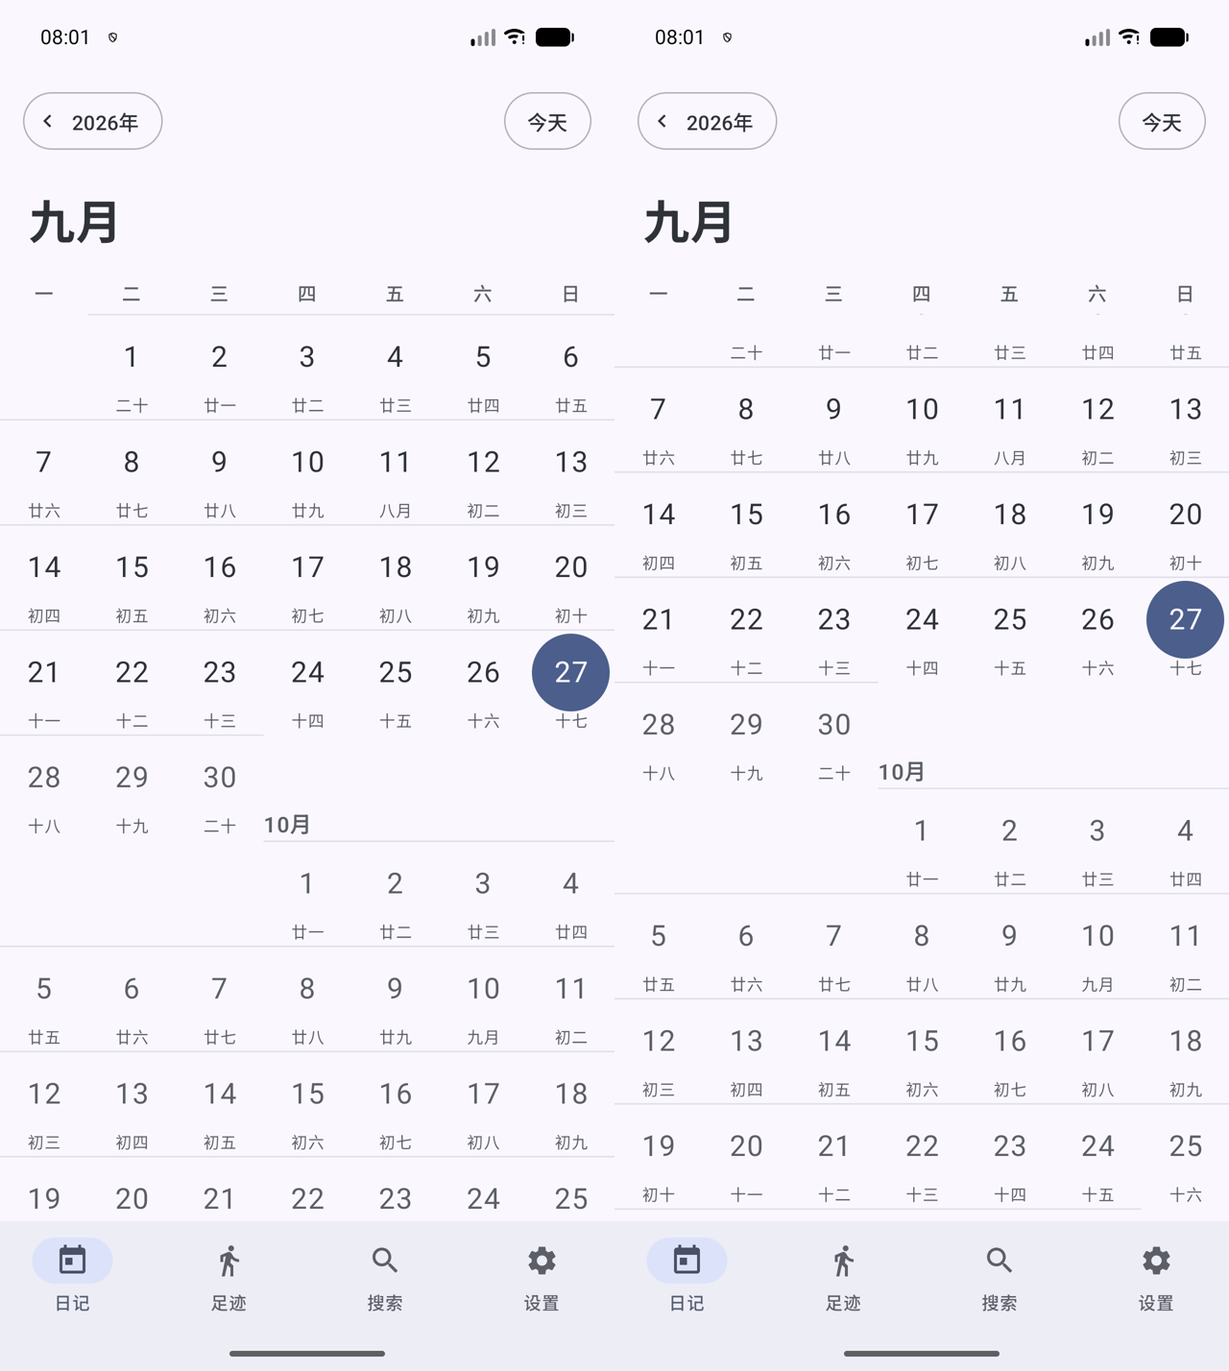
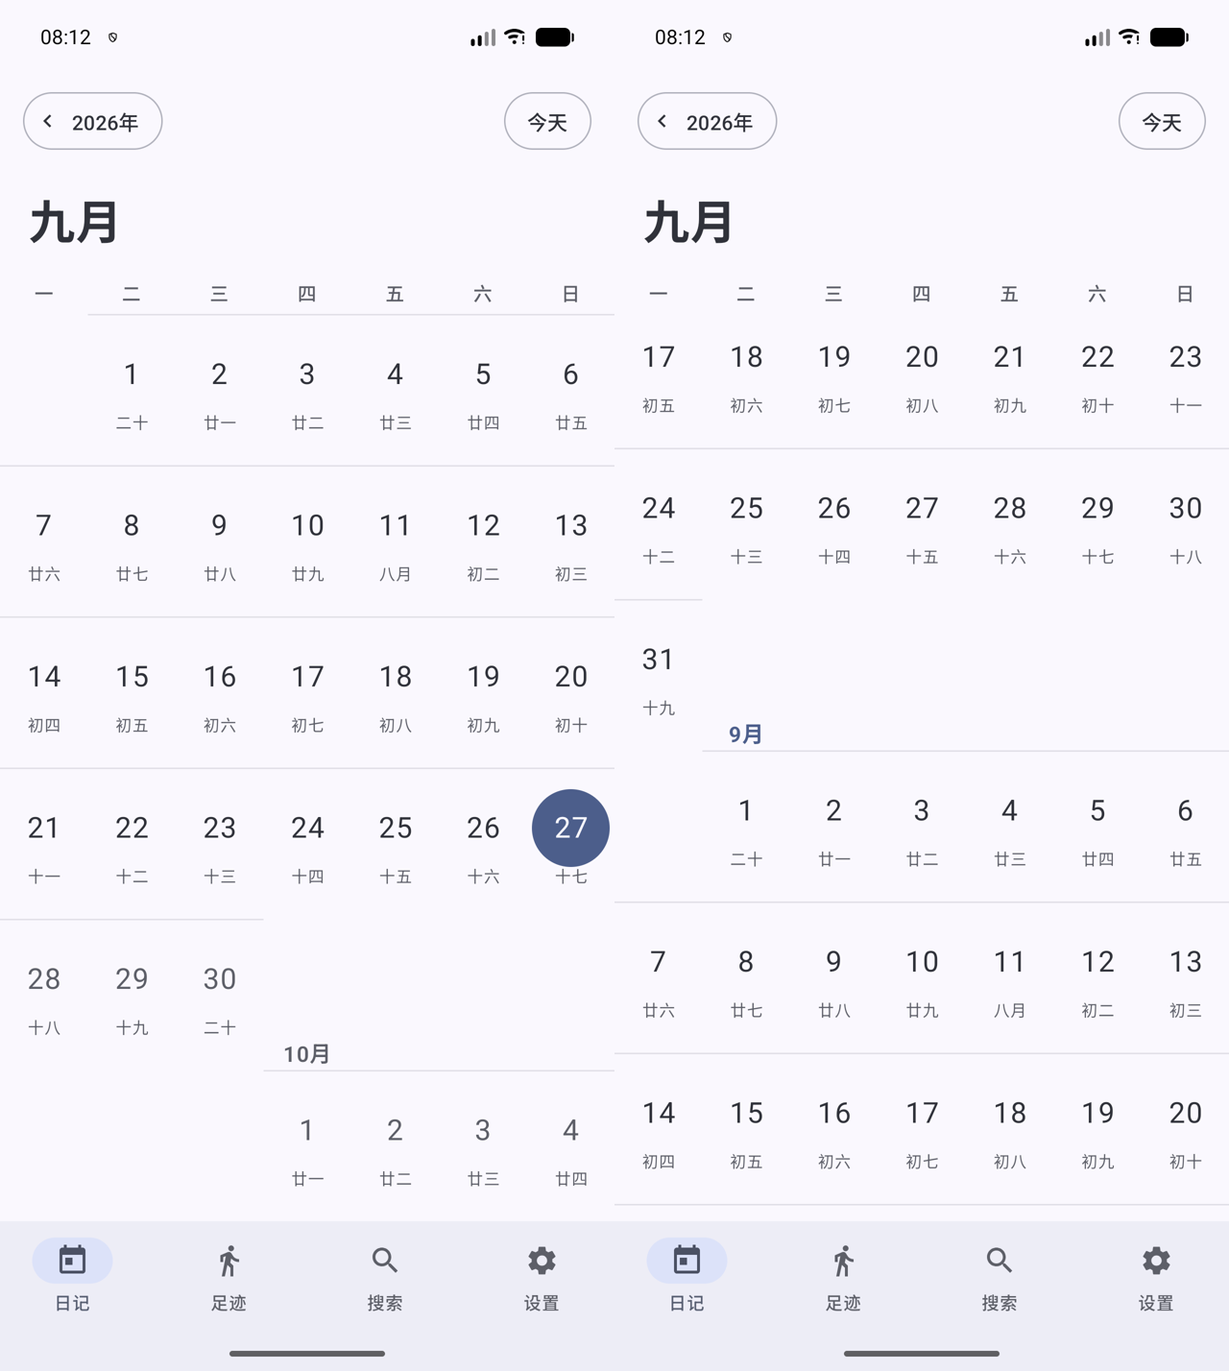
feat(home): 行高对齐 iOS 的 94pt 尺子；小标题压在 1 号正上方并与上一行隔开
用户（2026-09-27）："小月份要在 1 号正上方。另外，小月份和上一个月的最后要稍微隔开
一点，以小月份的上方为限。行高也按照 iOS 的 94pt 来设置，这方面对齐 iOS。
顶部大标题的问题，先不要改。"

- **行高**：改用 iOS 同一条尺子 `(区高 − 标题槽 − 星期栏) / 6`
  （`CalendarLayout.flowCellHeightFor`，含"系统字号放大"的兜底下限）。
  iPhone 402×874 上正是 94pt，本机（426.7×952dp）得 ~105dp —— 写死 94dp 反而会在
  底部漏出 0.7 行下个月，不是 iOS 的画面。一屏因此正好 6 行 = 一个月（与 iOS 一致）。
  这条**取代**了 §8.9 那条"由列宽推出（列距 × 1.2）"。
- **小标题正上方**：文字改成在 1 号那一列里**居中**（`TextAlign.Center`）——
  iOS 的 `frame(width: cellW, alignment: .bottom)` 默认就是居中，此前 Compose 默认的
  起始对齐看着偏左。
- **与上个月隔开**：行高一改，一行底部留白从 19dp 变 35dp，放得下小标题的 21 + 3dp，
  顶边之上还剩 ~11dp 空档（最坏情况"1 号是周首日"实测：农历底边与小标题字形顶边之间
  约 5.7dp）。小标题的 `surface` 底板因此删掉（不再需要遮挡）。
- **顶部大标题规则未动**（用户要求先不改）：行高变了之后它自然与 iOS 对齐 ——
  切换点从"静止位置往下 0.7 行"变成"往下 2 行"。

测试：`MonthFlowLayoutTest` 补两条（`the label keeps a gap above the previous month's
last row` / `row height fills the viewport with six rows like ios`），"静止画面"那条按新
尺子重写；全量 **417** 条 JVM 单测 + `assembleDebug` 通过，编译零警告。
证据截图（`docs/ui-audit/r6-*.png`）已按新版面重拍。

diff --git a/app/src/test/java/com/cov/justdiary/ui/home/MonthFlowLayoutTest.kt b/app/src/test/java/com/cov/justdiary/ui/home/MonthFlowLayoutTest.kt
@@ -25,20 +25,18 @@ import java.time.LocalDate
 class MonthFlowLayoutTest {
 
     /**
-     * 参考机（Pixel 10 Pro AVD，426.7×952dp）的实测值。
+     * 参考机（Pixel 10 Pro AVD，1280×2856 @480dpi = 426.7×952dp）的实测值。
      *
-     * ⚠ Android 竖屏的行高是**由列宽推出**的（`dayCellHeightFor`：列距 × 1.2，且不低于
-     * 内容下限 72dp），不是 iOS 那种「把整页均分给 6 行」。于是同样一屏在 Android 上能看到
-     * **约 9 行（≈ 1.8 个月）**，而 iOS 上是 6 行。这条差异影响两处断言：视口里能同时看到
-     * 两个整月、以及"顶部月份"过半才切。
+     * 行高与 iOS **同一条尺子**：`(日历区高 − 标题槽 − 星期栏) / 6`（用户 2026-09-27
+     * "行高也按照 iOS 的 94pt 来设置，这方面对齐 iOS"）。iPhone 402×874 上得 94pt，
+     * 本机得 ~105dp —— 一屏正好 6 行（= 一个月），与 iOS 的观感一致。
      */
     private val calendarW = 426.7f
-    private val rowH = CalendarLayout.dayCellHeightFor(calendarW, fontScale = 1f, showLunar = true)
 
-    /** 日历区高度 = 屏高 − 顶栏 64 − 底部导航 83（与 `AdaptiveLayout` 的浮条让位同一个量级）。 */
-    private val viewportH =
-        952f - CalendarLayout.HEADER_H - CalendarLayout.BIG_TITLE_H -
-            CalendarLayout.WEEKDAY_HEADER_H - 83f
+    /** 日历区高度 = 屏高 − 顶栏 64 − 底部导航（实测内容顶 ≈ 218dp、底 ≈ 848dp）。 */
+    private val bandH = 952f - CalendarLayout.HEADER_H - 83f
+    private val viewportH = bandH - CalendarLayout.BIG_TITLE_H - CalendarLayout.WEEKDAY_HEADER_H
+    private val rowH = CalendarLayout.flowCellHeightFor(areaH = bandH, fontScale = 1f, showLunar = true)
 
     private fun layout(ws: String = DateUtil.WEEK_START_MONDAY) = MonthFlowLayout.of(ws, rowH)
 
@@ -46,6 +44,10 @@ class MonthFlowLayoutTest {
 
     /** 见 `rows inside a month are exactly one row apart` 里的说明。 */
     private val FLOAT_EPS = 0.1f
+
+    /** 一行里「内容之上」的留白（小标题就借用它）。 */
+    private val contentTopPadding =
+        CalendarLayout.cellContentTopPadding(CalendarLayout.flowMetrics(calendarW, rowH, showLunar = true))
 
     // ------------------------------------------------------------------ 行数与行高
 
@@ -113,6 +115,40 @@ class MonthFlowLayoutTest {
         }
     }
 
+    /**
+     * 2b) **小标题与上个月最后一行要隔开**（用户 2026-09-27："小月份和上一个月的最后要
+     * 稍微隔开一点，以小月份的上方为限"）。
+     *
+     * 小标题整块高度 = 带高 + 3dp 间隙，必须**放得进**上一行底部的留白
+     * `(行高 − 内容高)/2`，这样它的**顶边**之上还剩一段真实的空档。
+     */
+    @Test
+    fun `the label keeps a gap above the previous month's last row`() {
+        val padding = contentTopPadding
+        // 小标题整块（带高 + 3dp 间隙）必须放得进上一行底部的留白
+        assertTrue(
+            "留白 ${'$'}padding 要放得下小标题 ${'$'}{labelH + CalendarLayout.LABEL_TIGHT_GAP}",
+            padding >= labelH + CalendarLayout.LABEL_TIGHT_GAP,
+        )
+        // 而且"小标题顶边"之上还有真正的空档（用户要的"稍微隔开一点"）
+        val gap = padding - labelH - CalendarLayout.LABEL_TIGHT_GAP
+        assertTrue("小标题上方要留出空档（当前 ${'$'}gap dp）", gap >= 4f)
+    }
+
+    /** 行高 = iOS 那条尺子：一屏正好 6 行（分区高 = 标题槽 + 星期栏 + 6 行）。 */
+    @Test
+    fun `row height fills the viewport with six rows like ios`() {
+        assertEquals(
+            "六行正好铺满视口（iOS 同一条尺子）",
+            viewportH,
+            rowH * CalendarLayout.MONTH_ROWS,
+            0.001f,
+        )
+        // 系统字号放大时行高要跟着长，否则"日号 + 农历"会被裁掉
+        val big = CalendarLayout.flowCellHeightFor(bandH, fontScale = 2f, showLunar = true)
+        assertTrue("字号放大后行高要跟着长", big > rowH)
+    }
+
     /** 3) 静止位置 = 该月第一行的顶；此时顶部月份就是它自己。 */
     @Test
     fun `rest offset puts the first row at the top`() {
@@ -128,11 +164,12 @@ class MonthFlowLayoutTest {
     }
 
     /**
-     * 静止画面（Android 竖屏）：本月第一行顶在视口顶部，**整月都在视口里**，
-     * 下面还接着下个月的小标题与若干行 —— 这正是用户要的「下一个月的日期会立即出现」。
+     * 静止画面（竖屏，与 iOS 一致）：本月第一行顶在视口顶部；**6 行月正好铺满**
+     * （下个月一行都不露），5 行月则把下个月的第一行露在底部 —— 这正是用户要的
+     * 「下一个月的日期会立即出现」。
      */
     @Test
-    fun `the viewport at rest shows the whole month and the next month's start`() {
+    fun `the viewport at rest shows six rows or the next month's first row`() {
         val l = layout()
         for (key in listOf(202608, 202609, 202602)) {
             val i = l.blockIndexForKey(key)
@@ -140,10 +177,15 @@ class MonthFlowLayoutTest {
             val block = l.blocks[i]
             val rowsH = block.rowCount * l.rowH
             val nextTop = l.blocks[i + 1].top
-            assertTrue("本月的第一行顶在视口顶部", rest == block.top)
-            assertTrue("整月都要放得下（行数 4…6）", rowsH <= viewportH)
+            assertEquals("本月的第一行顶在视口顶部", block.top, rest, 0.001f)
             assertEquals("下个月紧接着本月最后一行（不留空隙）", rest + rowsH, nextTop, 0.001f)
-            assertTrue("所以下一行确实露在视口里", nextTop < rest + viewportH)
+            if (block.rowCount == 6) {
+                assertEquals("六行正好铺满视口", viewportH, rowsH, 0.001f)
+                assertEquals("六行月的下一行正好在视口之外", rest + viewportH, nextTop, 0.001f)
+            } else {
+                assertTrue("五行月底下会露出下个月的开头", rowsH < viewportH)
+                assertTrue("所以下一行确实露在视口里", nextTop < rest + viewportH)
+            }
         }
     }
 

diff --git a/app/src/main/java/com/cov/justdiary/ui/home/MonthFlow.kt b/app/src/main/java/com/cov/justdiary/ui/home/MonthFlow.kt
@@ -46,6 +46,7 @@ import androidx.compose.ui.semantics.clearAndSetSemantics
 import androidx.compose.ui.semantics.hideFromAccessibility
 import androidx.compose.ui.semantics.semantics
 import androidx.compose.ui.text.font.FontWeight
+import androidx.compose.ui.text.style.TextAlign
 import androidx.compose.ui.text.style.TextOverflow
 import androidx.compose.ui.unit.IntOffset
 import androidx.compose.ui.unit.dp
@@ -266,10 +267,16 @@ class MonthFlowLayout private constructor(
 private const val LABEL_TIGHT_GAP = 3f
 
 /**
- * 月份小标题：站在**当月 1 号那一列的正上方**（不是整行居中），并且紧贴 1 号那一行。
+ * 月份小标题：压在**当月 1 号那一列的正上方**（在这一列里居中，与日号同一个中心），
+ * 并且紧贴 1 号那一行。
  *
  * 带高就是这一行字的高度（[CalendarLayout.flowLabelBandHeight]），上下不再留白：
  * 用户看过两版（整行高 → 35pt）都嫌高，明确要求「紧贴月份高度」。
+ *
+ * 它**借用**的是上一个月最后一行底部的留白（`CalendarLayout.cellContentTopPadding`
+ * ≈ 35dp），所以不额外占高度；用户 2026-09-27 要求「小月份和上一个月的最后稍微隔开一点，
+ * 以小月份的上方为限」—— 行高对齐 iOS 之后这段留白足够（21 + 3 ≤ 35），
+ * 小标题的**顶边**之上还有约 11dp 的空档。`MonthFlowLayoutTest` 把这条钉住了。
  */
 @Composable
 fun MonthFlowLabel(
@@ -294,12 +301,7 @@ fun MonthFlowLabel(
         // 摆到带子该在的位置（带高 21dp 只是设计值，字自己 ~22dp，差 1dp 看不出来）。
         modifier = modifier
             .offset(x = (column * cellW).dp)
-            .width(cellW.dp)
-            // 底色 = 页面底色：小标题那一行字高 21dp，而上一个月最后一行的**底部留白**
-            // 只有 (行高 − 内容高)/2 ≈ 19dp（Android 的行高由列宽推出，比 iOS 矮），
-            // 所以「1 号正好是周首日」的月份（约 1/7）里小标题会压到前一行的农历上。
-            // 给这一行字一块同色底，压住的部分就干净地让位（而不是叠字）。
-            .background(MaterialTheme.colorScheme.surface),
+            .width(cellW.dp),
         fontSize = DynamicTypeMetrics.calendarSp(
             CalendarLayout.flowLabelFontSize(compact).dp,
             fontScale,
@@ -313,6 +315,9 @@ fun MonthFlowLabel(
         maxLines = 1,
         overflow = TextOverflow.Clip,
         softWrap = false,
+        // **在这一列里居中** = 压在 1 号正上方（1 号的日号也是在这一列居中的）。
+        // iOS 的 `frame(width: cellW, height: bandH, alignment: .bottom)` 默认就是居中。
+        textAlign = TextAlign.Center,
     )
 }
 

diff --git a/app/src/main/java/com/cov/justdiary/ui/home/CalendarLayout.kt b/app/src/main/java/com/cov/justdiary/ui/home/CalendarLayout.kt
@@ -437,6 +437,41 @@ object CalendarLayout {
         (flowLabelFontSize(compact) * 1.4f).roundToInt().toFloat()
 
     /**
+     * 竖屏连续月历流的行高：**与 iOS 同一条尺子** —— `(区高 − 标题槽 − 星期栏) / 6`。
+     *
+     * 用户 2026-09-27："行高也按照 iOS 的 94pt 来设置，这方面对齐 iOS。"
+     * 在 iPhone 402×874 上这个式子得 94pt；本机（Pixel 10 Pro，426.7×952dp）得 ~105dp。
+     *
+     * ⚠ 这条规则**取代**了 §8.9 那条"由列宽推出（列距 × 1.2）"：
+     *  - 一屏正好 6 行（= 一个月）⇒ 与 iOS 的观感一致；
+     *  - 一行底部的留白 = (行高 − 内容高) / 2 ≈ 35dp，**放得下** 21dp 的小标题 +
+     *    3dp 间隙 ⇒ 小标题与上个月最后一行之间自然留出约 11dp（用户要的"稍微隔开一点"）；
+     *    旧规则（73dp）只有 19dp 留白，小标题会压到前一行的农历上。
+     *
+     * [fontScale] 那一项只是**兜底**：系统字号调大时内容会变高，行高至少要放得下
+     * "日号 + 农历"（与 [dayCellHeightFor] 的 `byContent` 同一个下限）。
+     */
+    fun flowCellHeightFor(
+        areaH: Float,
+        headerH: Float = BIG_TITLE_H + WEEKDAY_HEADER_H,
+        fontScale: Float = 1f,
+        showLunar: Boolean = true,
+    ): Float {
+        val byFill = (areaH - headerH) / MONTH_ROWS
+        val natural = if (showLunar) DAY_CELL_CONTENT_H else DAY_CELL_NO_LUNAR_H
+        val byContent = natural * max(1f, fontScale)
+        return max(byFill, byContent).coerceIn(MIN_CELL_H, SANITY_MAX_CELL_H)
+    }
+
+    /**
+     * 一格里「内容之上」的留白：`(行高 − 内容高) / 2`。
+     *
+     * 小标题（[flowLabelBandHeight] + [LABEL_TIGHT_GAP]）就借用这段留白 ——
+     * `MonthFlowLayoutTest` 用它守住"小标题不压到上个月的日期上"。
+     */
+    fun cellContentTopPadding(metrics: DayMetrics): Float = (metrics.cellH - metrics.contentH) / 2f
+
+    /**
      * 连续月历流单行的绘制参数。
      *
      * 字号跟着行高走：竖屏行高 ~94dp 时仍是设计里的 20/11；横屏左栏一格只有 40dp，

diff --git a/app/src/main/java/com/cov/justdiary/ui/home/HomeScreen.kt b/app/src/main/java/com/cov/justdiary/ui/home/HomeScreen.kt
@@ -523,18 +523,15 @@ fun HomeScreen(
         } else {
             showLunar
         }
-        // 行高：竖屏**由列宽推出**（见 `dayCellHeightFor`：均分会让 5 行月的行距达到列距的
-        // 两倍多，用户反馈"上下间隔太大"）；分栏按 6 行等分（行高必须跨月恒定，
-        // 否则滚过月份边界时格子会忽高忽低）。
-        val rowH = if (split) {
-            CalendarLayout.cellHeightFor(
-                areaH = bandH,
-                rows = CalendarLayout.MONTH_ROWS,
-                headerH = titleH + weekdayH,
-            )
-        } else {
-            CalendarLayout.dayCellHeightFor(calendarW, fontScale, showLunarHere)
-        }
+        // 行高：**与 iOS 同一条尺子** `(区高 − 标题槽 − 星期栏) / 6`（行高必须跨月恒定，
+        // 否则滚过月份边界时格子会忽高忽低）。用户 2026-09-27 明确要求对齐 iOS ——
+        // 附带好处是小标题那一行字有了 35dp 的留白（旧规则只有 19dp，会压到农历上）。
+        val rowH = CalendarLayout.flowCellHeightFor(
+            areaH = bandH,
+            headerH = titleH + weekdayH,
+            fontScale = fontScale,
+            showLunar = showLunarHere,
+        )
         val flowLayout = remember(weekStart, rowH) { MonthFlowLayout.of(weekStart, rowH) }
         val viewportH = maxOf(0f, bandH - titleH - weekdayH)
 

diff --git a/docs/migration-progress.md b/docs/migration-progress.md
@@ -1915,6 +1915,29 @@ LazyRow(state = state, flingBehavior = rememberSnapFlingBehavior(state)) {
 1. 每一个日期都是**真实的 Compose 组件**（TalkBack 逐格可读），不是 Canvas；
 2. 钉住层带 `surface` 底色（iOS 靠 `clipped()` 切齐，不需要底色）。
 
+## R6 补 · 行高对齐 iOS 的 94pt + 小标题压在 1 号正上方
+
+**用户（2026-09-27）**："小月份要在 1 号正上方。另外，小月份和上一个月的最后要稍微隔开
+一点，以小月份的上方为限。行高也按照 iOS 的 94pt 来设置，这方面对齐 iOS。
+顶部大标题的问题，先不要改。"
+
+| 用户的话 | 处置 |
+| --- | --- |
+| 行高按 iOS 的 94pt | 改用 **iOS 同一条尺子**：`(区高 − 标题槽 − 星期栏) / 6`（`CalendarLayout.flowCellHeightFor`）。iPhone 402×874 上正是 94pt，本机（426.7×952dp）得 ~105dp —— 写死 94dp 反而会在底部漏出 0.7 行下个月，不是 iOS 的画面 |
+| 小月份压在 1 号正上方 | 小标题的文字改成**在 1 号那一列里居中**（`TextAlign.Center`）。iOS 的 `frame(width: cellW, alignment: .bottom)` 默认也是居中；此前用的是 Compose 默认的起始对齐，看着偏左 |
+| 小月份与上个月的最后隔开一点 | 行高一改，一行底部的留白从 **19dp → 35dp**，放得下小标题的 21 + 3dp，**顶边之上还剩约 11dp 空档**（实测：2 月那种"1 号是周首日"的最坏情况，农历底边与小标题字形顶边之间约 5.7dp）。小标题的 `surface` 底板因此**删掉**了（不再需要遮挡） |
+| 顶部大标题先不要改 | 规则没动（仍是 iOS 的"占视口最多"）。行高变了之后它**自然**与 iOS 对齐：切换点从"往下 0.7 行"变成"往下 2 行" |
+
+**为什么这次和 §8.9 那条"由列宽推出"相反**：那条是 2026-09-26 为了压"上下间隔太大"定的
+（当时行高 114dp、列距 51dp，比例 2.2）。现在换成 iOS 尺子后行高 105dp、列距 61dp，
+比例 1.7 —— 与 iOS 的 94pt / 57pt（1.65）几乎相同，观感就是 iOS 那一版。
+
+**测试**：`MonthFlowLayoutTest` 补两条 ——
+`the label keeps a gap above the previous month's last row`（留白 ≥ 小标题整块，且顶边之上
+还有 ≥ 4dp 空档）、`row height fills the viewport with six rows like ios`（6 行 = 视口，
+且字号放大时行高跟着长）；"静止画面"那条也按新尺子重写（6 行月正好铺满、5 行月露下个月第一行）。
+全量 **417** 条 JVM 单测通过。
+
 ### 已知遗留
 
 - 日记页（阅读 / 编辑 / 多选 / 分享）**未开工**，差距清单见

diff --git a/docs/android-design/03-home.md b/docs/android-design/03-home.md
@@ -556,10 +556,11 @@ LaunchedEffect(listState) {
 
 | 量 | 值（竖屏） | 备注 |
 | --- | --- | --- |
-| 行高 | `dayCellHeightFor`（列距 × 1.2，≥ 内容下限 72dp） | **不是**把整页均分给 6 行 |
-| 一屏可见 | ≈ 9 行（≈ 1.8 个月） | iOS 是 6 行（≈ 1.2 个月） |
-| 顶部大标题切换点 | 本月的静止位置**再往下约 51dp**（约 0.7 行） | 见下面的说明 |
-| 小标题 | 15dp 字 / 21dp 带 / 底边离分割线 3dp | 横屏左栏 13dp / 18dp |
+| 行高 | **`(区高 − 标题槽 − 星期栏) / 6`**（`flowCellHeightFor`） | 与 iOS 同一条尺子：iPhone 得 94pt，本机（426.7×952dp）得 ~105dp |
+| 一屏可见 | **6 行（= 一个月）**：6 行月正好铺满、5 行月底下露下个月第一行 | 与 iOS 完全一致 |
+| 顶部大标题切换点 | 本月的静止位置**再往下 2 行**（210dp） | 与 iOS 同一处（规则未改，行高一改它就自然对齐了） |
+| 小标题 | 15dp 字 / 21dp 带 / 底边离分割线 3dp / **在 1 号那一列里居中** | 横屏左栏 13dp / 18dp |
+| 小标题的落位 | 借用上一行底部留白 `(行高 − 内容高)/2 ≈ 35dp` | 21 + 3 ≤ 35 ⇒ 顶边之上还有 ~11dp 空档 |
 
 **顶部大标题的切换点**（Android 与 iOS 的差异，值得记一笔）：大标题用的是 iOS 那条
 "**占视口最多**"的规则（`dominantBlockIndex`）。iOS 一行 ~94pt、一屏 6 行，所以
@@ -662,7 +663,13 @@ LaunchedEffect(listState) {
    结果是滚动中间态出现**没有任何列标题的日期行**（一眼就是坏的），已回退。
    钉住层与紧凑块**必须同时上**。
 
-## 8.9 竖屏行高：**由列宽推出**，不是把整页均分（2026-09-26 用户反馈）
+## 8.9 竖屏行高：由列宽推出（2026-09-26 用户反馈）
+
+> ⚠ **2026-09-27 已被取代**：用户要求"行高也按照 iOS 的 94pt 来设置，这方面对齐 iOS"，
+> 现在的行高是 `(区高 − 标题槽 − 星期栏) / 6`（见 §8.7.1）。
+> 下面这一节保留的是**当时的推导**（为什么曾经按列宽推）与那次实测的教训。
+> `CalendarLayout.dayCellHeightFor` 仍保留（分栏的密度判定与旧测试还在用它），
+> 但**连续月历流已经不用它**。
 
 用户："目前的日期上下间隔太大了，参考左右间隔来设置上下间隔。"
 

diff --git a/docs/android-design/09-test-checklist.md b/docs/android-design/09-test-checklist.md
@@ -45,8 +45,11 @@
 - [ ] 滑行中**手指按下去**：内容立刻停在当前帧、随即跟手（不是等动画跑完才响应）
 - [ ] 拖到两端（1900-01 / 2100-12）是**橡皮筋**，松手弹回（不是硬墙）
 - [ ] **月份大标题与星期栏钉在顶部不动**，只是**换字**：大标题 = **占视口最多**的那一个月
-- [ ] 每个月 1 号上方显示的**月份小标签**，横向压在 **1 号那一列**上方（不是左对齐）
-- [ ] 月份小标签紧贴在**分割线上方**（不额外占一行高度）
+- [ ] 每个月 1 号上方显示的**月份小标签**，**居中压在 1 号的正上方**（不是左对齐）
+- [ ] 月份小标签紧贴在**分割线上方**（不额外占一行高度），
+      与上一个月最后一行**留出一小段空档**（"以小月份的上方为限"）
+- [ ] 一屏正好 **6 行 = 一个月**（行高与 iOS 同一条尺子）：6 行月正好铺满、
+      5 行月底下露下个月第一行
 - [ ] 年态同样跟手，相邻年份滑进来（**不应该拖出空白**）
 - [ ] 周态竖直拖没有反应，横向拖才翻周；横拖时**左右邻周**都在（**不应留白**）
 - [ ] 翻月之后右上胶囊从「今天」变成具体日期（如「9月26日」），点它回到今天
@@ -61,8 +64,8 @@
 - [ ] 年 → 月（点迷你月）：网格从卡片长出来，**下一个月的日期立即出现**（不等动画结束）
 - [ ] 反复"月→周→月→年→月"之后，月视图仍在原来的滚动位置
 
-### 1.2.1 排版（这轮按 iOS 参考图重排）
-- [ ] 日期行距与列距**观感相当**（不应"上下空得很、左右很挤"）
+### 1.2.1 排版（按 iOS 参考图重排；2026-09-27 行高改为对齐 iOS）
+- [ ] 行高 = `(区高 − 标题槽 − 星期栏) / 6`（iPhone 94pt / 本机 ~105dp），一屏一个月
 - [ ] **农历完整可见**，没有下半截被切掉（尤其把系统字号调大之后）
 - [ ] 有日记那天的小短横线，**不会让那一格整体比别的格高/低**
 - [ ] 日号与农历在分隔线之间**大致居中**
